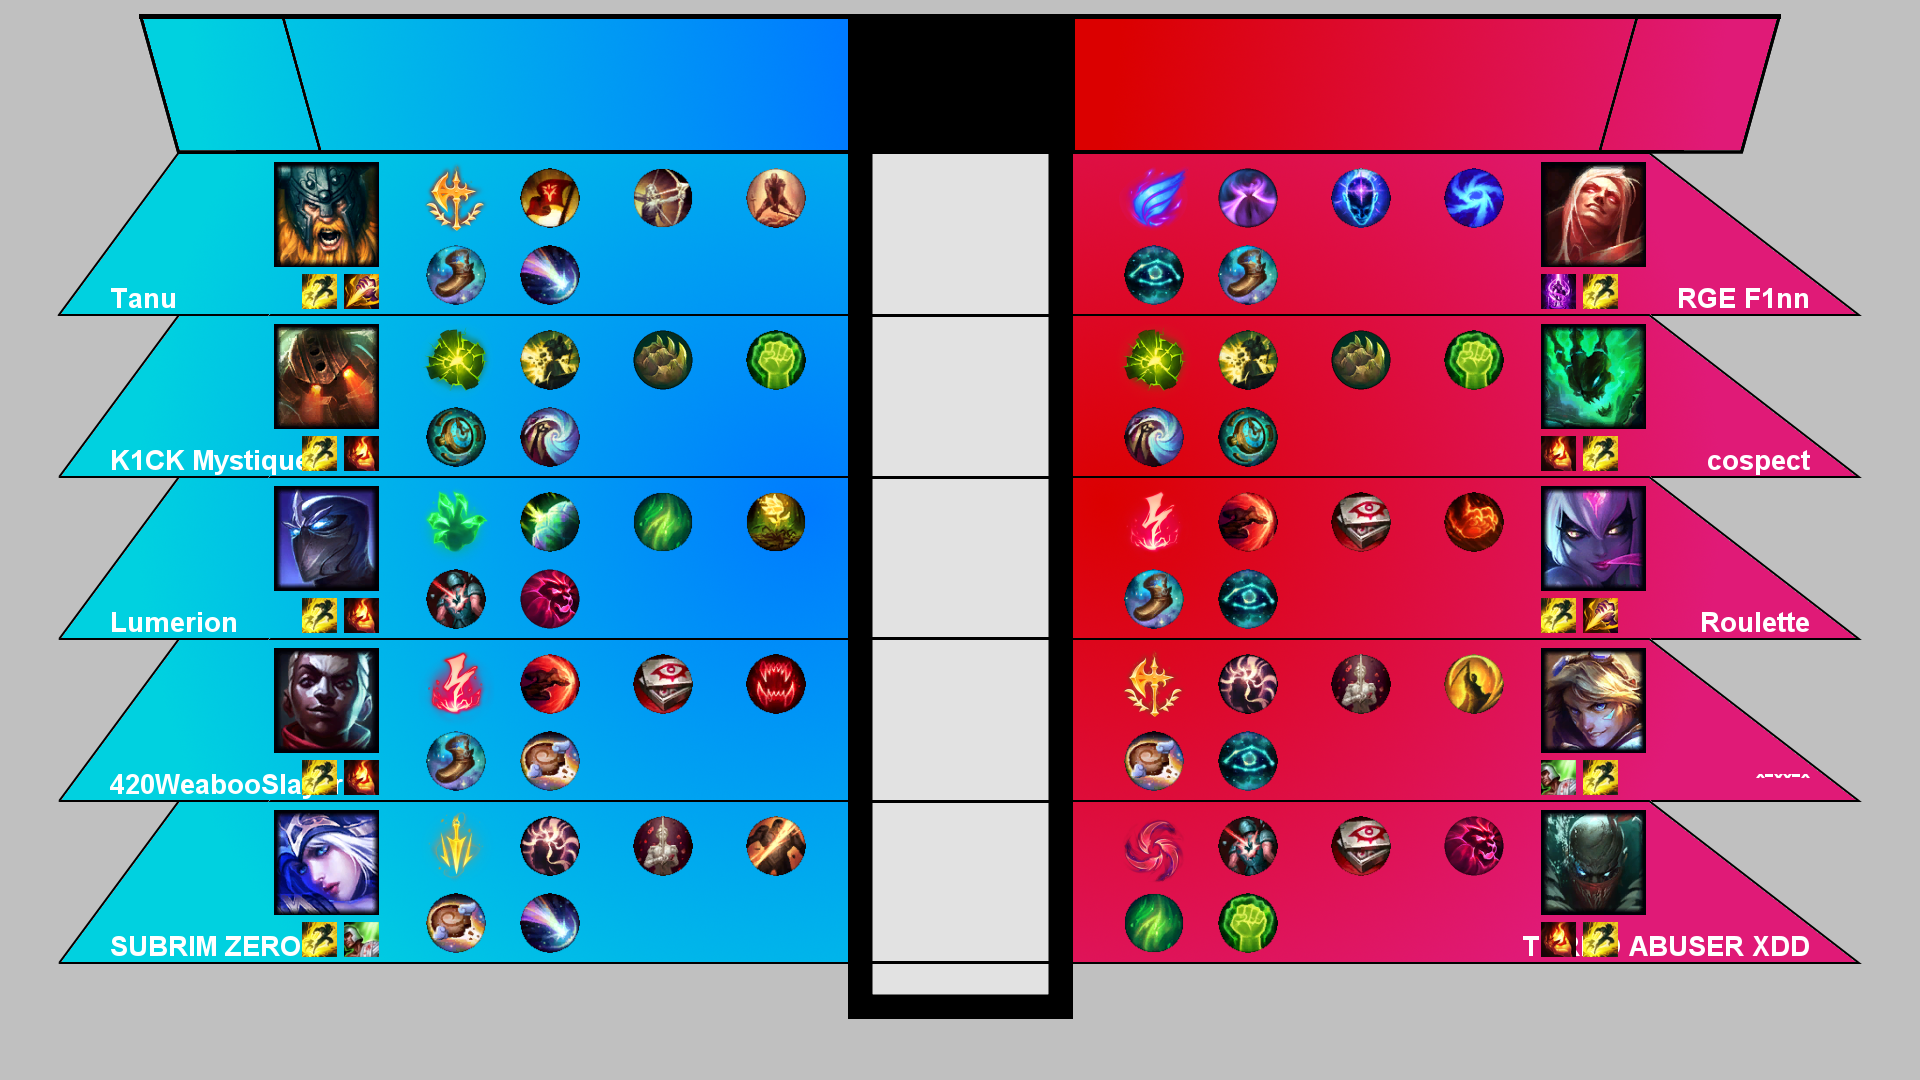
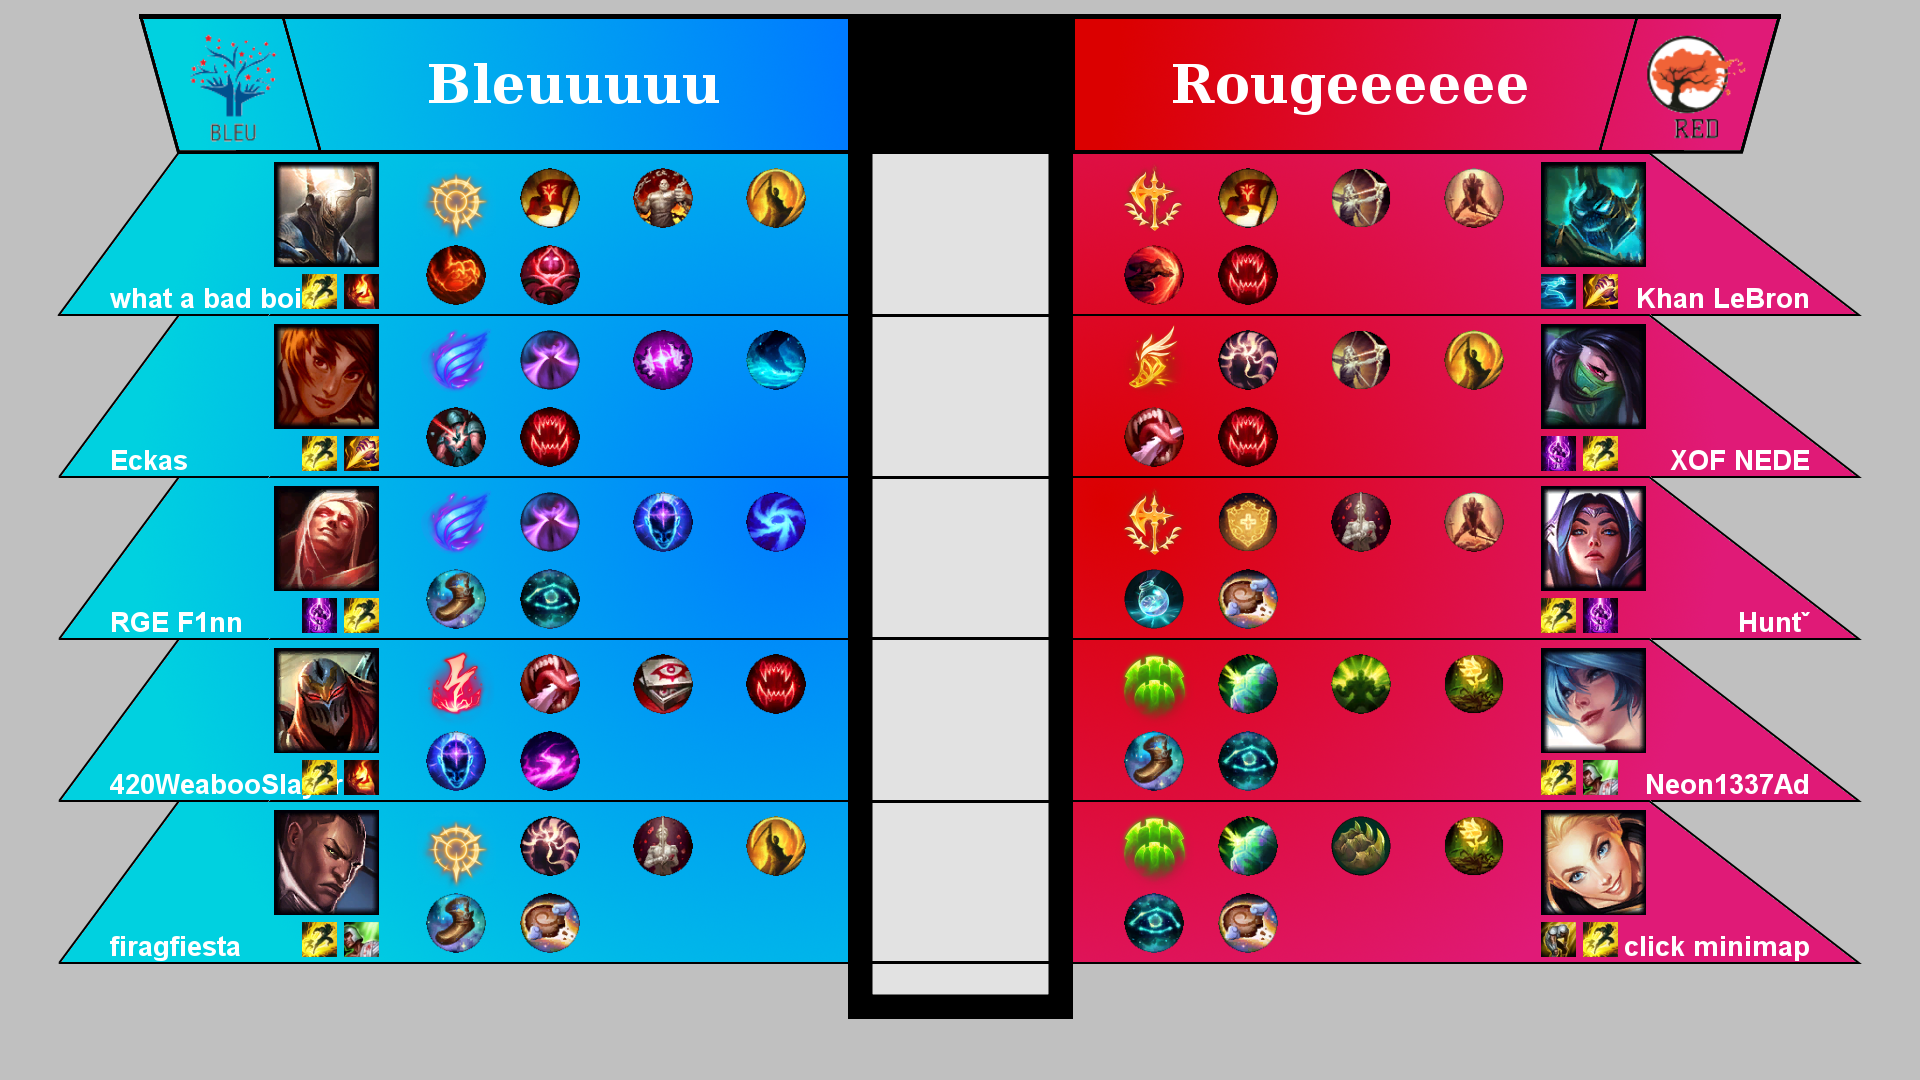
v.1.1.3 : add logoTeam1 and logoTeam2 in settings

diff --git a/index.js b/index.js
@@ -19,12 +19,12 @@ console.log(settings);
 //Uhhhh... I don't know how to explain. positionXMesure and positionYMesure contains where the object start on the picture (from top-left).
 //positionXMesure_Save and positionYMesure_Save contains the same thing, it's just a save to generate the red team.
 //mesureX and mesureY contains the size of the object. mesureX is about the length, and mesureY about the height
-var positionXMesure = {pseudo : 110, champ : 274, spell1:302, spell2:344,perk1:417, perk2: 520, perk3: 633, perk4: 746,perk5:426,perk6:520, team1: 0, team2:0};
-var positionXMesure_Save = {pseudo : 110,champ : 274, spell1:302, spell2:344,perk1:417, perk2: 520, perk3: 633, perk4: 746,perk5:426,perk6:520, team1: 0, team2:0};
-var positionYMesure = {pseudo : 315, champ : 162, spell1:274, spell2:274,perk1:162, perk2: 168, perk3: 168, perk4: 168,perk5:245,perk6:245, team1: 0, team2:0};
-var positionYMesure_Save = {pseudo : 315, champ :162, spell1:274, spell2:274,perk1:162, perk2: 168, perk3: 168, perk4: 168,perk5:245,perk6:245, team1: 0, team2:0};
-const mesureX = {pseudo : 0, champ : 105, spell1:35, spell2:35,perk1:79, perk2: 60, perk3: 60, perk4: 60,perk5:60,perk6:60, team1: 0, team2:0};
-const mesureY = {pseudo : 0, champ : 105, spell1:35, spell2:35,perk1:79, perk2: 60, perk3: 60, perk4: 60,perk5:60,perk6:60, team1: 0, team2:0};
+var positionXMesure = {pseudo : 110, champ : 274, spell1:302, spell2:344,perk1:417, perk2: 520, perk3: 633, perk4: 746,perk5:426,perk6:520, team1: 160, team2:1620};
+var positionXMesure_Save = {pseudo : 110,champ : 274, spell1:302, spell2:344,perk1:417, perk2: 520, perk3: 633, perk4: 746,perk5:426,perk6:520, team1: 160, team2:1620};
+var positionYMesure = {pseudo : 315, champ : 162, spell1:274, spell2:274,perk1:162, perk2: 168, perk3: 168, perk4: 168,perk5:245,perk6:245, team1: 12, team2:12};
+var positionYMesure_Save = {pseudo : 315, champ :162, spell1:274, spell2:274,perk1:162, perk2: 168, perk3: 168, perk4: 168,perk5:245,perk6:245, team1:12, team2: 12};
+const mesureX = {pseudo : 0, champ : 105, spell1:35, spell2:35,perk1:79, perk2: 60, perk3: 60, perk4: 60, perk5:60 ,perk6:60, team1: 150, team2: 150};
+const mesureY = {pseudo : 0, champ : 105, spell1:35, spell2:35,perk1:79, perk2: 60, perk3: 60, perk4: 60, perk5:60 ,perk6:60, team1: 150, team2: 150};
 
 (async () => {
     //Retrieve summoner
@@ -263,11 +263,35 @@ function generateImage(){
     loadImage('./concept/baseline.png').then(async image => {
         context.drawImage(image, 0, 0, 1920, 1080);
 
-        context.font = 'bold 20pt Arial'
+        context.font = 'bold 40pt Serif'
         context.textBaseline = 'bottom'
-        context.textAlign = 'left';
+        context.textAlign = 'center';
         context.fillStyle = '#ffffff'
-        
+        await context.fillText(settings.team1Name, 574, 115);
+        await context.fillText(settings.team2Name, 1350, 115);
+        context.textAlign = 'left';
+        context.font = 'bold 20pt Arial'
+
+        if(settings.logoTeam1 != ""){
+            await loadImage('./logo/'+settings.logoTeam1).then(async image => {
+                await context.drawImage(image, positionXMesure.team1, positionYMesure.team1, mesureX.team1, mesureY.team1);
+            });
+        } else {
+            await loadImage('./logo/defaultBlue.png').then(async image => {
+                await context.drawImage(image, positionXMesure.team1, positionYMesure.team1, mesureX.team1, mesureY.team1);
+            });
+        }
+
+        if(settings.logoTeam2 != ""){
+            await loadImage('./logo/'+settings.logoTeam1).then(async image => {
+                await context.drawImage(image, positionXMesure.team2, positionYMesure.team2, mesureX.team2, mesureY.team2);
+            });
+        } else {
+            await loadImage('./logo/defaultRed.png').then(async image => {
+                await context.drawImage(image, positionXMesure.team2, positionYMesure.team2, mesureX.team2, mesureY.team2);
+            });
+        }
+
         //Loop to generate picture for each player
         for(let g=0;g<game.participants.length;g++){
             summoner = game.participants[g];
